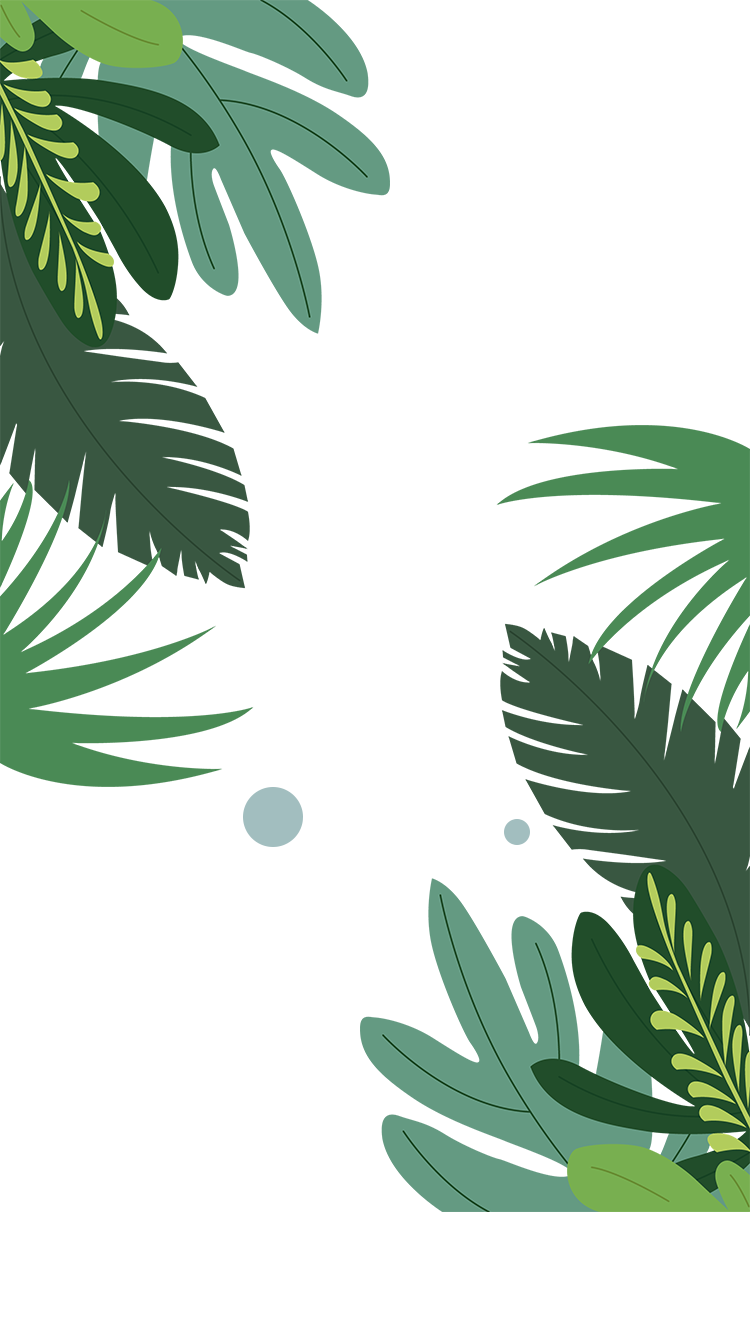
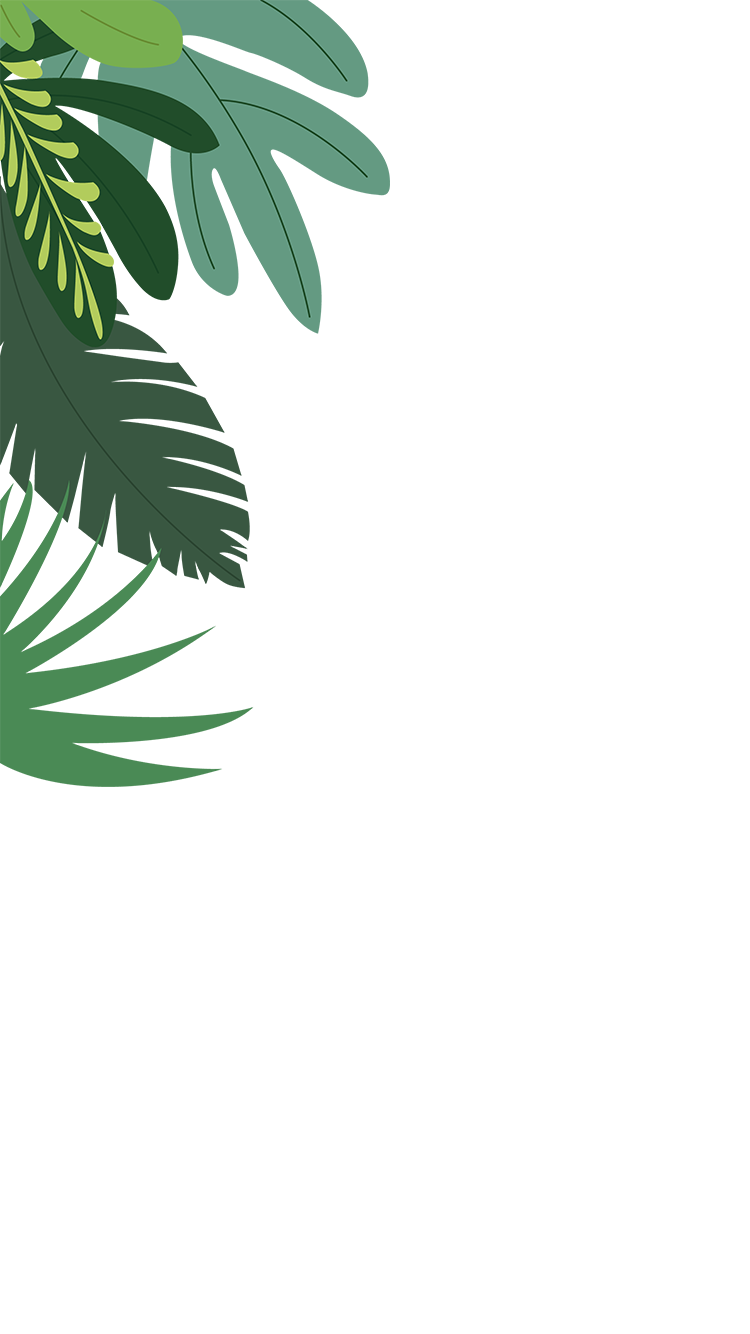
修改图片对齐
界面更加美观

Changed region(s): [[0.46, 0.3073, 1.0, 0.922], [0.3067, 0.584, 0.3987, 0.6454], [0.6747, 0.6147, 0.7053, 0.6454]]

diff --git a/components/bac/bac.less b/components/bac/bac.less
@@ -1,7 +1,7 @@
 @titleColor : #fff;
 @bacColor   : var(--themeColor);
 @fontSize   : 1em;
-@bacImage   : 'https://images-1300732204.cos.ap-chengdu.myqcloud.com/MarkDown/bac.png';
+@bottomPosition: 110rpx;
 
 .bac {
     position: relative;
@@ -28,9 +28,14 @@
         position       : absolute;
         z-index        : 1;
         top            : 0;
-        background     : url(@bacImage) no-repeat;
-        background-size: cover;
         height         : 100vh;
         width          : 100vw;
+    }
+    .bac_leaf{
+        position: fixed;
+        right: 0;
+        width: 50vw;
+        z-index: 1;
+        bottom: @bottomPosition;
     }
 }

diff --git a/pages/index/index.less b/pages/index/index.less
@@ -2,7 +2,7 @@
 .bac{
     position: absolute;
     width: 100vw;
-    height: 90vh;
+    height: 100vh;
     z-index: 0;
     background-color: #458E86;
 }

diff --git a/pages/login/login.less b/pages/login/login.less
@@ -110,6 +110,6 @@
 .leaf {
     position: fixed;
     z-index: 5;
-    bottom: 150rpx;
+    bottom: 120rpx;
     width: 30vw;
 }
